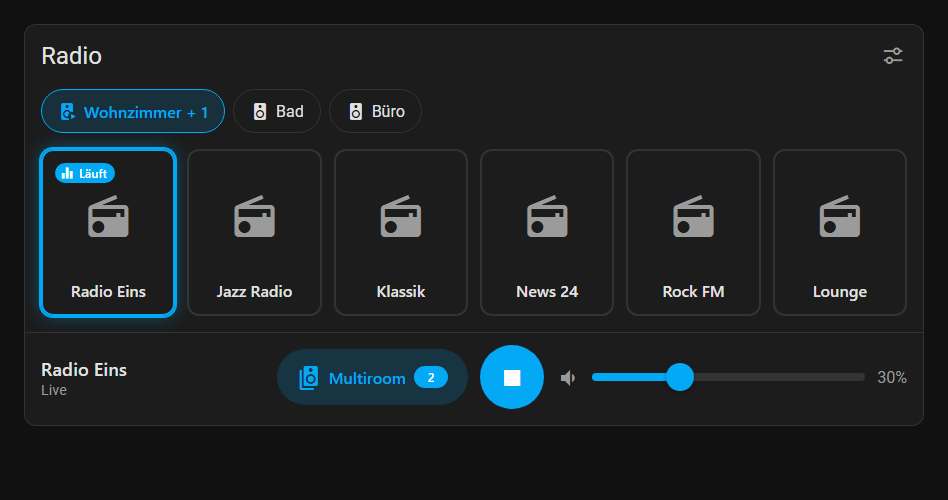
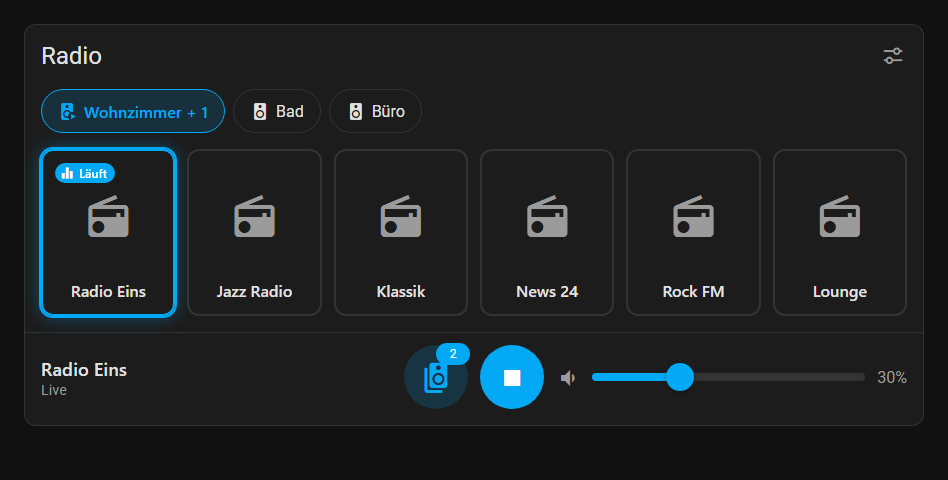
feat(card): round multiroom button and speaker chips directly below header

diff --git a/src/sonos-radio-card.ts b/src/sonos-radio-card.ts
@@ -1053,12 +1053,12 @@ export class SonosRadioCard extends LitElement {
               : this._renderTargets()}
             ${this._renderSettingsButton()}
           </div>
+          ${this._config.title ? this._renderTargets() : nothing}
           ${notices.length > 0
             ? html`<div class="notices">
                 ${notices.map((notice) => this._renderNotice(notice))}
               </div>`
             : nothing}
-          ${this._config.title ? this._renderTargets() : nothing}
           ${this._renderStations(activeIndex, available)}
           ${this._renderControls(coordinator, activeIndex, available)}
           ${this._toast ? this._renderNotice(this._toast, true) : nothing}
@@ -1270,6 +1270,7 @@ export class SonosRadioCard extends LitElement {
           <button
             class="multiroom"
             aria-label=${this._t("card.multiroom")}
+            title=${this._t("card.multiroom")}
             aria-haspopup="dialog"
             aria-expanded=${this._drawerOpen && this._drawerView === "group"
               ? "true"
@@ -1278,7 +1279,6 @@ export class SonosRadioCard extends LitElement {
             @click=${this._openGroupDrawer}
           >
             <ha-icon icon="mdi:speaker-multiple"></ha-icon>
-            <span class="multiroom-label">${this._t("card.multiroom")}</span>
             ${members.length > 1
               ? html`<span class="count">${members.length}</span>`
               : nothing}
@@ -2039,19 +2039,24 @@ export class SonosRadioCard extends LitElement {
     .multiroom {
       position: relative;
       display: inline-flex;
+      flex: none;
       align-items: center;
-      gap: 8px;
-      height: var(--sonos-radio-touch);
-      padding: 0 20px;
+      justify-content: center;
+      width: calc(var(--sonos-radio-touch) + 8px);
+      height: calc(var(--sonos-radio-touch) + 8px);
+      padding: 0;
       cursor: pointer;
       border: none;
-      border-radius: calc(var(--sonos-radio-touch) / 2);
+      border-radius: 50%;
       background: color-mix(in srgb, var(--primary-color) 18%, transparent);
       color: var(--primary-color);
-      font-weight: 600;
+      --mdc-icon-size: 30px;
     }
 
     .count {
+      position: absolute;
+      top: -2px;
+      right: -2px;
       display: inline-flex;
       align-items: center;
       justify-content: center;
@@ -2065,11 +2070,6 @@ export class SonosRadioCard extends LitElement {
     }
 
     @container (max-width: 420px) {
-      .multiroom {
-        padding: 0 16px;
-      }
-
-      .multiroom-label,
       .volume-value {
         display: none;
       }

diff --git a/dist/sonos-radio-card.js b/dist/sonos-radio-card.js
@@ -2539,12 +2539,12 @@ class SonosRadioCard extends i$1 {
             : this._renderTargets()}
             ${this._renderSettingsButton()}
           </div>
+          ${this._config.title ? this._renderTargets() : A}
           ${notices.length > 0
             ? b `<div class="notices">
                 ${notices.map((notice) => this._renderNotice(notice))}
               </div>`
             : A}
-          ${this._config.title ? this._renderTargets() : A}
           ${this._renderStations(activeIndex, available)}
           ${this._renderControls(coordinator, activeIndex, available)}
           ${this._toast ? this._renderNotice(this._toast, true) : A}
@@ -2735,6 +2735,7 @@ class SonosRadioCard extends i$1 {
           <button
             class="multiroom"
             aria-label=${this._t("card.multiroom")}
+            title=${this._t("card.multiroom")}
             aria-haspopup="dialog"
             aria-expanded=${this._drawerOpen && this._drawerView === "group"
             ? "true"
@@ -2743,7 +2744,6 @@ class SonosRadioCard extends i$1 {
             @click=${this._openGroupDrawer}
           >
             <ha-icon icon="mdi:speaker-multiple"></ha-icon>
-            <span class="multiroom-label">${this._t("card.multiroom")}</span>
             ${members.length > 1
             ? b `<span class="count">${members.length}</span>`
             : A}
@@ -3431,19 +3431,24 @@ class SonosRadioCard extends i$1 {
     .multiroom {
       position: relative;
       display: inline-flex;
+      flex: none;
       align-items: center;
-      gap: 8px;
-      height: var(--sonos-radio-touch);
-      padding: 0 20px;
+      justify-content: center;
+      width: calc(var(--sonos-radio-touch) + 8px);
+      height: calc(var(--sonos-radio-touch) + 8px);
+      padding: 0;
       cursor: pointer;
       border: none;
-      border-radius: calc(var(--sonos-radio-touch) / 2);
+      border-radius: 50%;
       background: color-mix(in srgb, var(--primary-color) 18%, transparent);
       color: var(--primary-color);
-      font-weight: 600;
+      --mdc-icon-size: 30px;
     }
 
     .count {
+      position: absolute;
+      top: -2px;
+      right: -2px;
       display: inline-flex;
       align-items: center;
       justify-content: center;
@@ -3457,11 +3462,6 @@ class SonosRadioCard extends i$1 {
     }
 
     @container (max-width: 420px) {
-      .multiroom {
-        padding: 0 16px;
-      }
-
-      .multiroom-label,
       .volume-value {
         display: none;
       }
